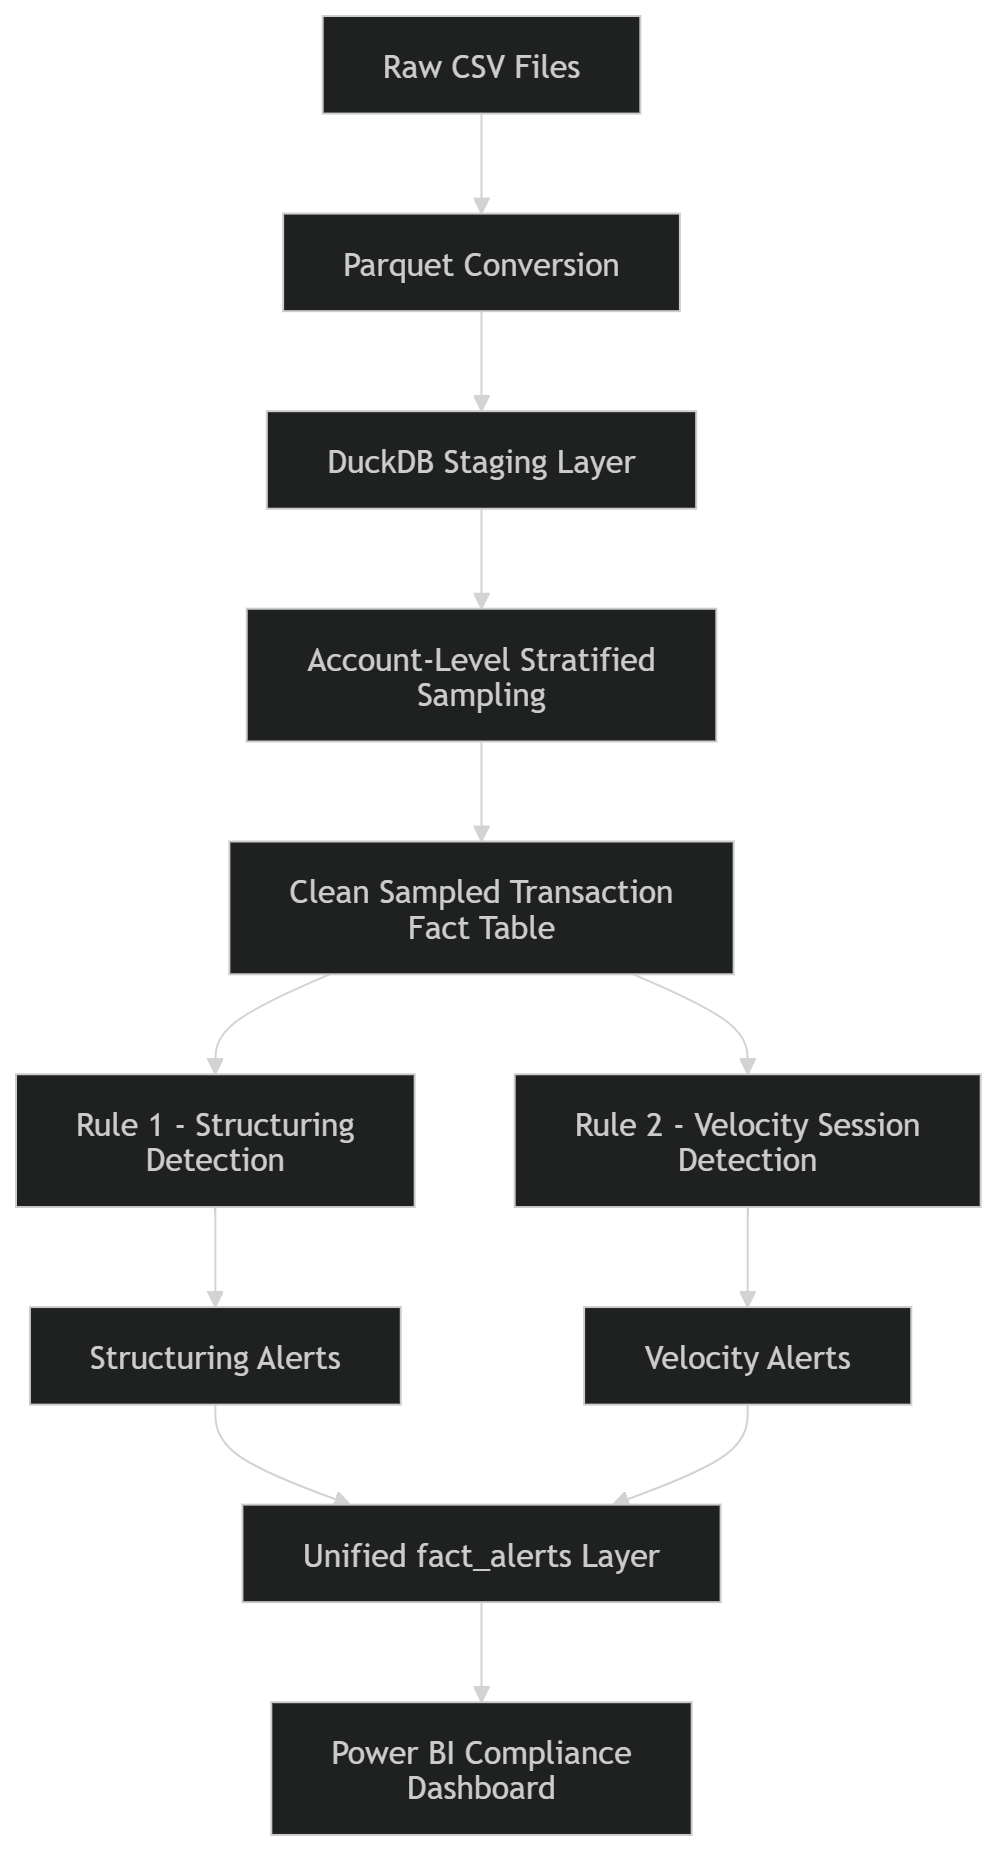
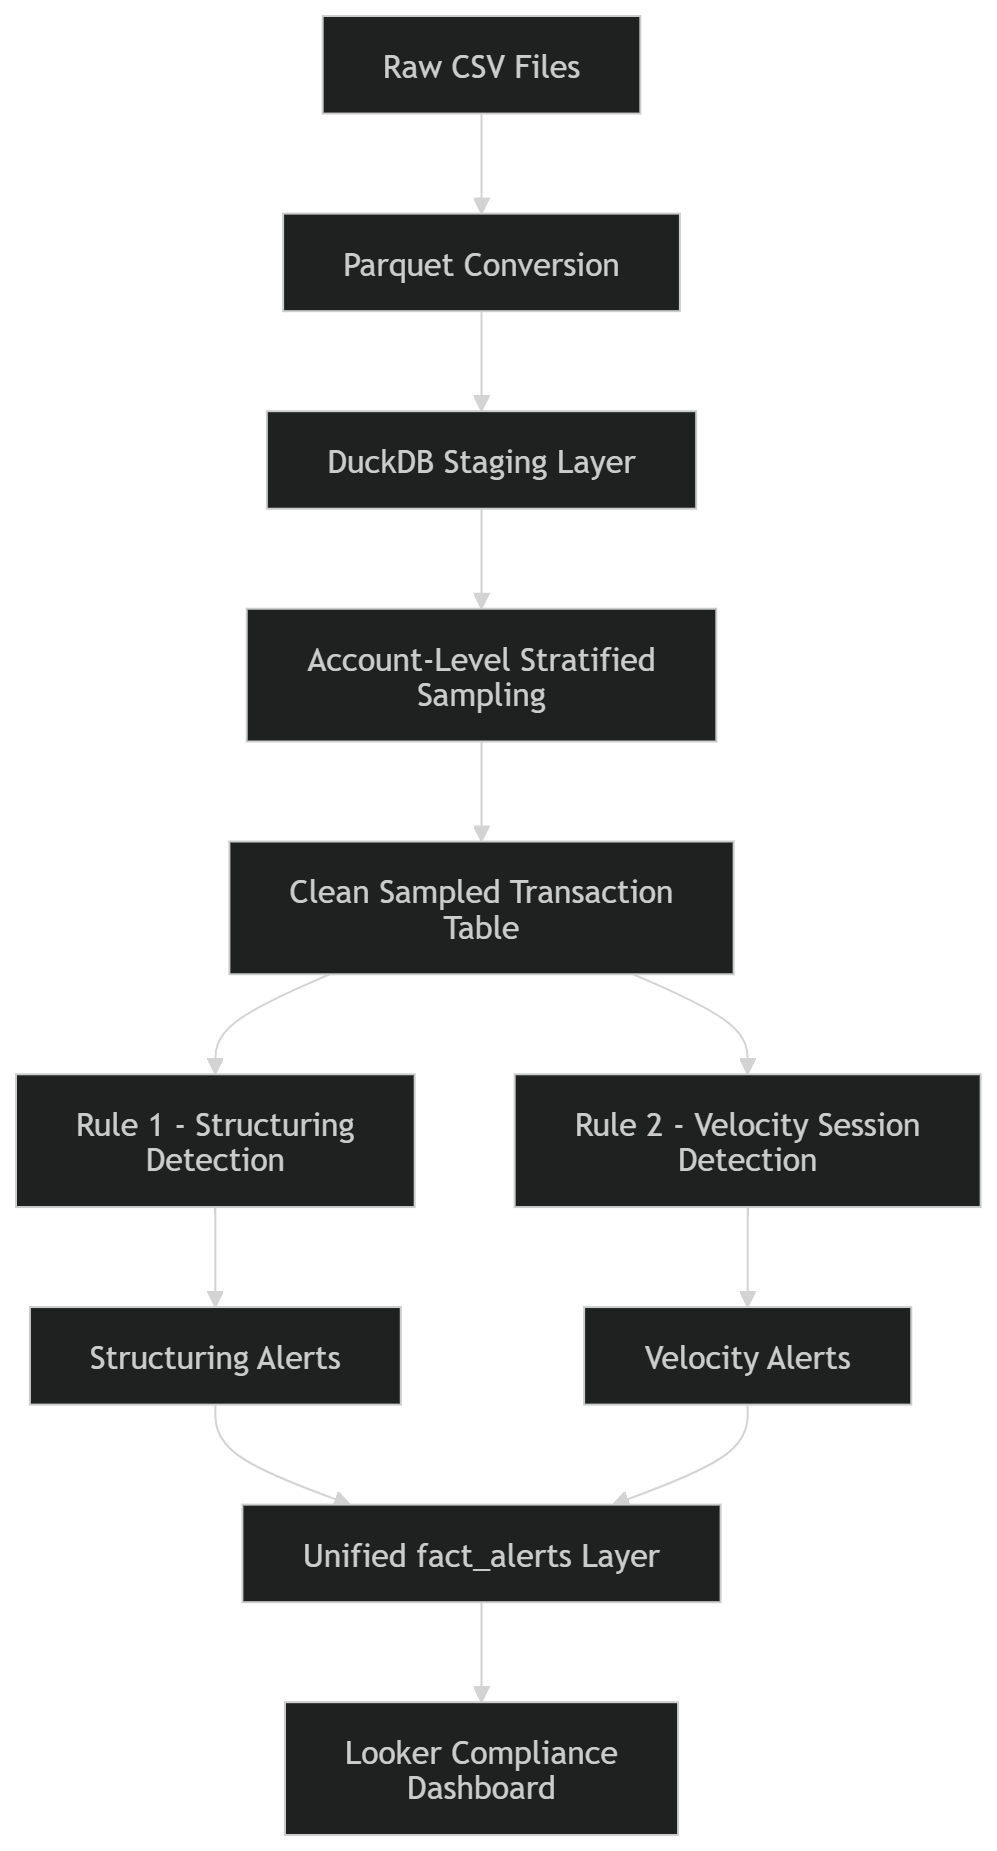
Updated dashboard preview in README

diff --git a/README.md b/README.md
@@ -21,7 +21,6 @@ Compliance-ready alert architecture
   <img src="data_modelling/system_architecture.png" width="800">
 </p>
 
-
 ## Dataset
 Source: IBM “Transactions for AML” Dataset
 Scale: ~430,920,901 transactions
@@ -163,3 +162,7 @@ This project is for educational and research purposes using a synthetic AML data
 ## Author
 I Adeyinka developed this project as a portfolio-grade AML monitoring architecture demonstrating scalable detection engineering and risk modelling design.
 
+## AML Compliance Dashboard
+
+![Dashboard Preview](data_modelling/dashboard_preview.png)
+🔗 [Open Looker Dashboard](https://lookerstudio.google.com/reporting/29ec8206-6703-4c01-8c04-6396496650b1/page/thbqF/edit)
